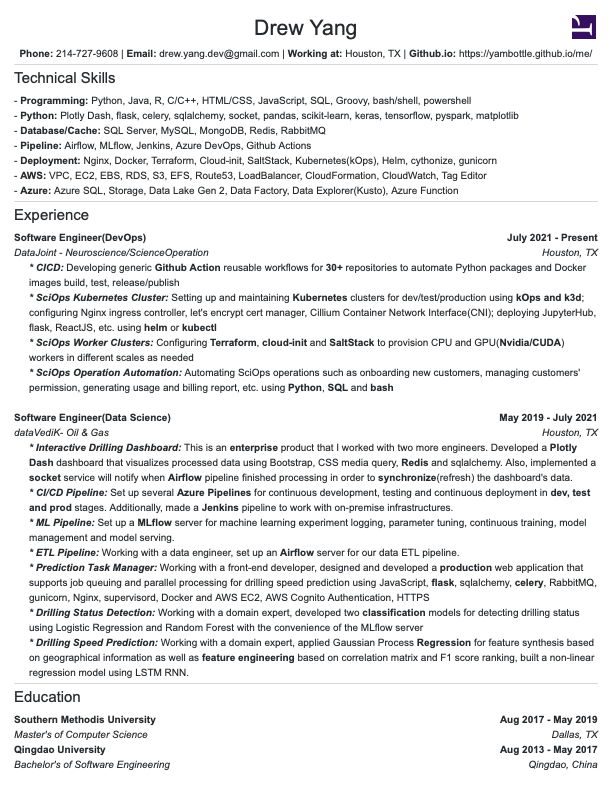
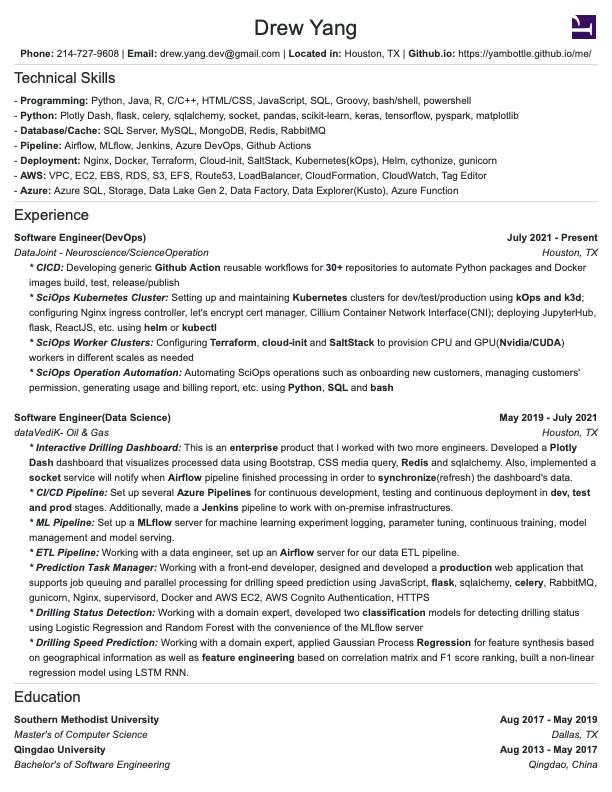
fix: 🐛 typo

Changed region(s): [[0.031, 0.0606, 0.9624, 0.0909], [0.2173, 0.9091, 0.2484, 0.9394], [0.1863, 0.8788, 0.2173, 0.9091]]

diff --git a/printer-friendly.html b/printer-friendly.html
@@ -11,7 +11,7 @@ title: Printer Friendly
         <div class="children-center">
             <div class="inline-block"><b>Phone:</b> {{site.phone}}</div> |
             <div class="inline-block"><b>Email:</b> <a>{{site.email}}</a></div> |
-            <div class="inline-block"><b>Working at:</b> {{site.location}}</div> |
+            <div class="inline-block"><b>Located in:</b> {{site.location}}</div> |
             <div class="inline-block"><b>Github.io:</b> <a>{{site.github}}</a></div>
         </div>
     </div>
@@ -118,7 +118,7 @@ title: Printer Friendly
     <div>
         <h5>Education</h5>
         <div class="space-between bold-text">
-            <div>Southern Methodis University</div>
+            <div>Southern Methodist University</div>
             <div>Aug 2017 - May 2019</div>
         </div>
         <div class="space-between italic-text">
